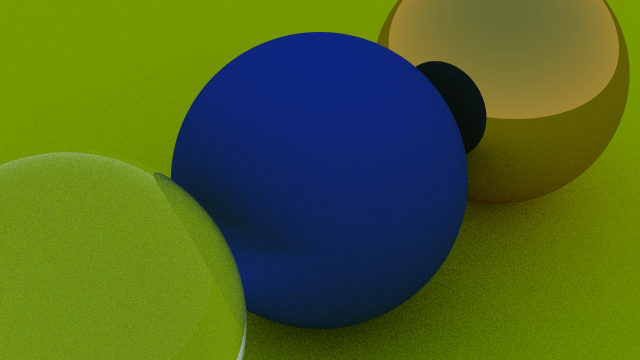
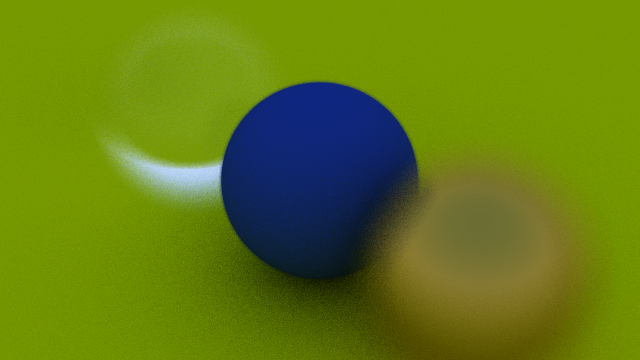
Implement DoF

diff --git a/src/camera.rs b/src/camera.rs
@@ -1,4 +1,4 @@
-use crate::{Point3, Ray, Vec3};
+use crate::{random, Point3, Ray, Vec3};
 
 pub struct Camera {
     /// The viewpoint.
@@ -12,6 +12,11 @@ pub struct Camera {
 
     /// The lower left corner of the viewport.
     lower_left_corner: Point3,
+
+    /// The radius of the lens.
+    /// The larger it is, the shallower DoF will be.
+    /// With 0 radius it is an ideal pinhole camera.
+    lens_radius: f64,
 }
 
 impl Camera {
@@ -25,7 +30,7 @@ impl Camera {
         look_at: Point3,
 
         // ...But the viewport can rotate in this plane, so we need a "up"
-        // direction. This `vup` doesn't need to be in the plane; It will
+        // direction. This `vup` doesn't need to be in the plane; The code
         // handle the projection, so most of the time you can just pass in
         // (0, 1, 0).
         vup: Vec3,
@@ -37,9 +42,20 @@ impl Camera {
         // as the aspect ratio of the image, but you can change it to
         // stretch the image.
         aspect_ratio: f64,
+
+        // The aperture of the camera. The larger it is, the shallower
+        // the DoF will be. Set it to 0 for an ideal camera with no blurring.
+        aperture: f64,
+
+        // The focus distance of the camera, i.e. if you travel such distance
+        // from the viewpoint to the direction you are looking to, the object
+        // at that point will be perfectly clear no matter the aperture.
+        // Normally this should be set to the distance between `look_from`
+        // and `look_at` for a clear view in the middle.
+        focus_dist: f64,
     ) -> Self {
-        // the distance from the viewpoint to the viewport plane is set to 1.0
-        let viewport_height = 2.0 * (vfov.to_radians() / 2.0).tan();
+        // create virtual viewport at the focus distance
+        let viewport_height = 2.0 * (vfov.to_radians() / 2.0).tan() * focus_dist;
         let viewport_width = aspect_ratio * viewport_height;
 
         let look_to = (look_at - look_from).unit();
@@ -53,14 +69,25 @@ impl Camera {
             origin: look_from,
             horizontal,
             vertical,
-            lower_left_corner: look_from + look_to - horizontal / 2.0 - vertical / 2.0,
+            lower_left_corner: look_from + focus_dist * look_to - horizontal / 2.0 - vertical / 2.0,
+            lens_radius: aperture / 2.0,
         }
     }
 
     pub fn get_ray(&self, u: f64, v: f64) -> Ray {
+        // sample offset vector parallel to the viewport plane
+        let offset = loop {
+            // sample from the unit disc with rejection method
+            let x = random::float_between(-1.0, 1.0);
+            let y = random::float_between(-1.0, 1.0);
+            if x * x + y * y < 1.0 {
+                break (x * self.horizontal.unit() + y * self.vertical.unit()) * self.lens_radius;
+            }
+        };
+
         Ray::new(
-            self.origin,
-            self.lower_left_corner + u * self.horizontal + v * self.vertical - self.origin,
+            self.origin + offset,
+            self.lower_left_corner + u * self.horizontal + v * self.vertical - self.origin - offset,
         )
     }
 }

diff --git a/src/main.rs b/src/main.rs
@@ -28,10 +28,22 @@ fn main() {
     world.add(Sphere::new(Point3::new(1.0, 0.0, -1.0), 0.5, metal));
 
     // set up camera
-    let look_from = Point3::new(-2.0, 2.0, 1.0);
+    let look_from = Point3::new(3.0, 3.0, 2.0);
     let look_at = Point3::new(0.0, 0.0, -1.0);
     let vup = Vec3::new(0.0, 1.0, 0.0);
-    let camera = Camera::new(look_from, look_at, vup, 20.0, ASPECT_RATIO);
+    let focus_dist = (look_at - look_from).length();
+    let vfov = 20.0;
+    let aperture = 2.0;
+
+    let camera = Camera::new(
+        look_from,
+        look_at,
+        vup,
+        vfov,
+        ASPECT_RATIO,
+        aperture,
+        focus_dist,
+    );
 
     // alloc image data buffer
     let mut data = Vec::with_capacity((3 * WIDTH * HEIGHT) as usize);
